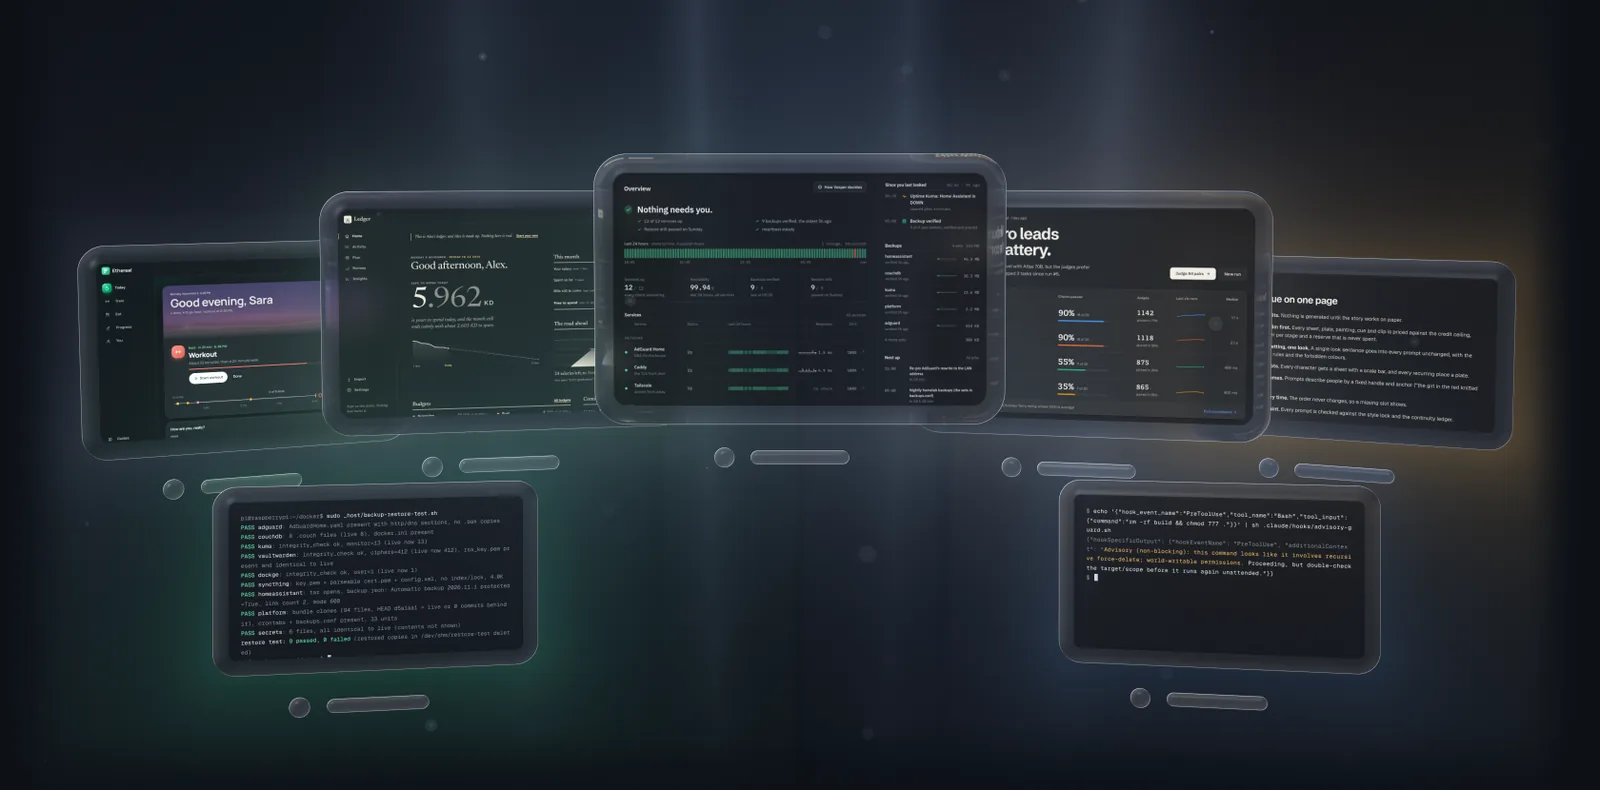
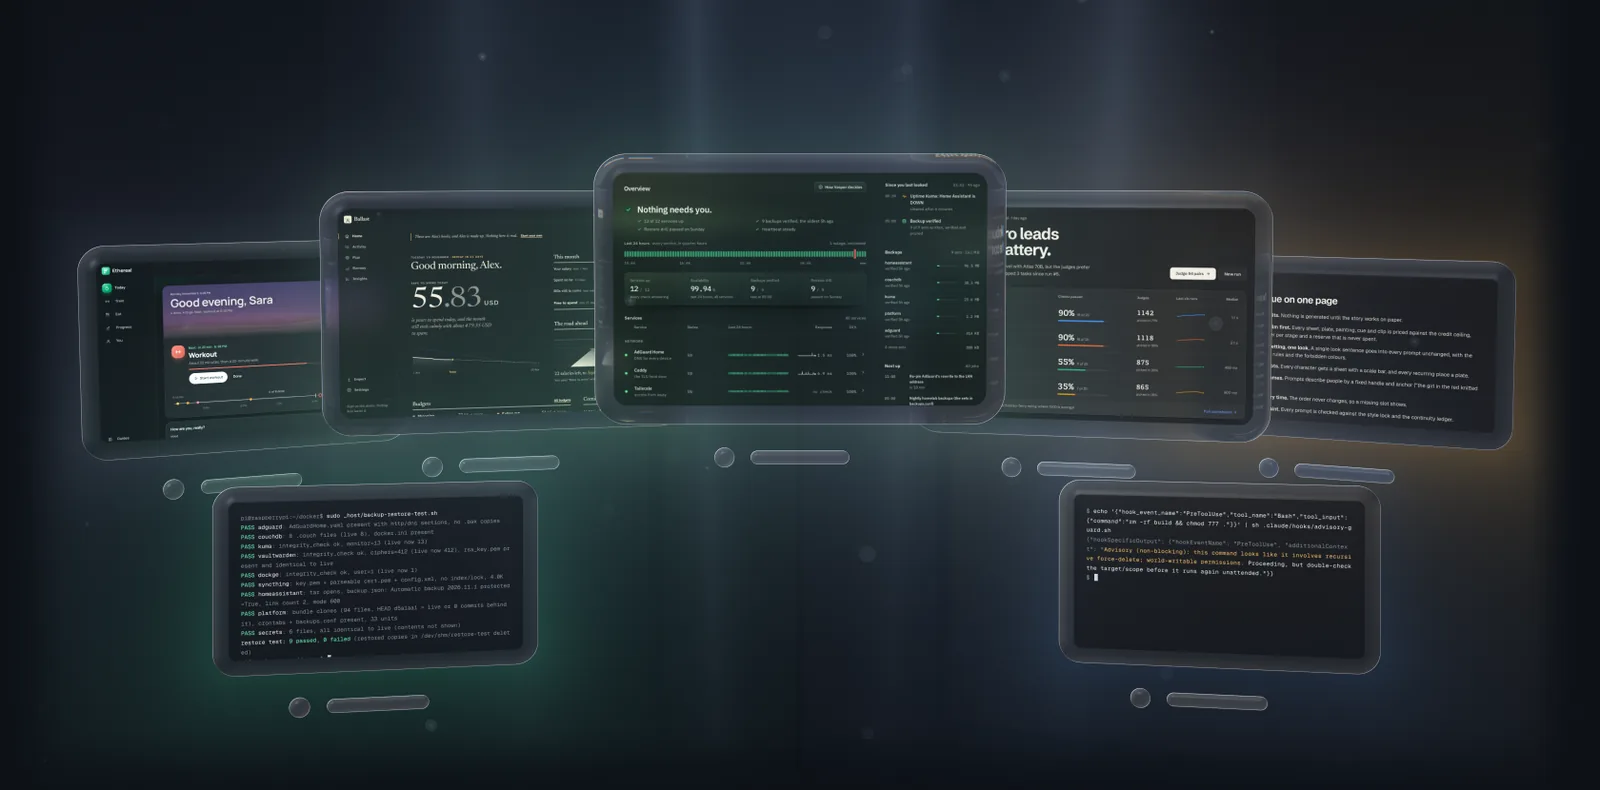
Hero scene and share image show the current apps
The animated hero, its phone poster and the share image still carried an
older finance screenshot and the previous Vesper console. All three are
rendered again from the current demo captures of Ballast and Vesper.

Claude-Session: https://claude.ai/code/session_01HQfW8pkzqmESaZpf3GNiQv

diff --git a/index.html b/index.html
@@ -14,7 +14,7 @@
 <meta property="og:url" content="https://gallowforge.github.io/">
 <meta property="og:title" content="Ali Husain · Software engineer and product designer">
 <meta property="og:description" content="Offline-first apps, self-hosted infrastructure and AI tooling, built from the interface to the infrastructure. Tested, documented and proven before it ships.">
-<meta property="og:image" content="https://gallowforge.github.io/assets/og.png">
+<meta property="og:image" content="https://gallowforge.github.io/assets/og.png?v=2611101429">
 <meta property="og:image:width" content="1200">
 <meta property="og:image:height" content="630">
 <meta property="og:image:alt" content="Ali Husain. I build complete systems, from the interface to the infrastructure.">
@@ -81,8 +81,8 @@
 
   <figure class="hero-scene" data-reveal>
     <picture>
-      <source media="(max-width: 700px)" srcset="assets/img/glass-scene-poster.webp">
-      <img src="assets/img/glass-scene.webp" width="1600" height="790" decoding="async" fetchpriority="high" alt="Ali's own work as floating glass windows on synthetic demo data: Ethereal, Ballast, Vesper, Evalbench and the filmforge method in an arc, with a homelab restore test and an agent guardrail warning in front">
+      <source media="(max-width: 700px)" srcset="assets/img/glass-scene-poster.webp?v=2611101429">
+      <img src="assets/img/glass-scene.webp?v=2611101429" width="1600" height="790" decoding="async" fetchpriority="high" alt="Ali's own work as floating glass windows on synthetic demo data: Ethereal, Ballast, Vesper, Evalbench and the filmforge method in an arc, with a homelab restore test and an agent guardrail warning in front">
     </picture>
   </figure>
 </section>
